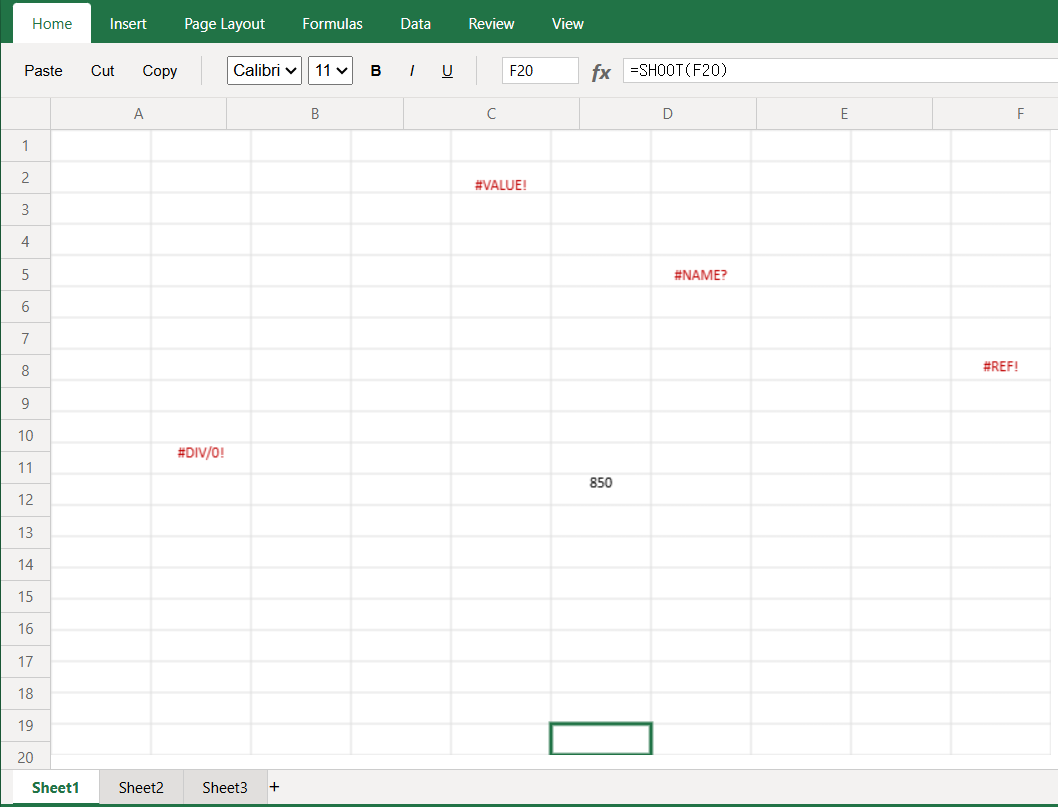
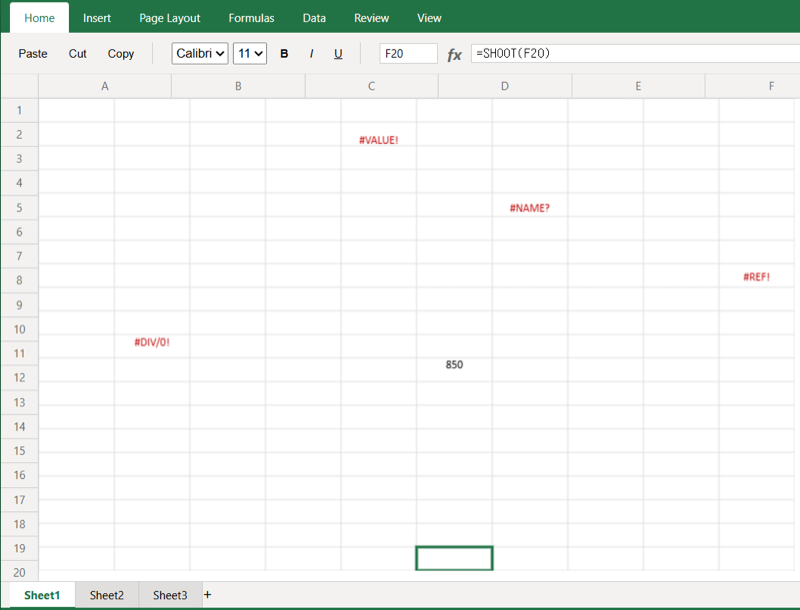
ui

diff --git a/game-hub/frontend/src/app/page.tsx b/game-hub/frontend/src/app/page.tsx
@@ -35,7 +35,7 @@ const translations = {
     store: "스토어",
     library: "라이브러리",
     community: "커뮤니티",
-    heroTitle: "일하는 척, 몰래 플레이",
+    heroTitle: "회사에서 몰래할 수 있는 게임 모음",
     heroDesc: "업무용 프로그램으로 위장한 게임 컬렉션. 들키지 않고 브라우저에서 바로 즐기세요.",
     featured: "추천 게임",
     all: "전체",
